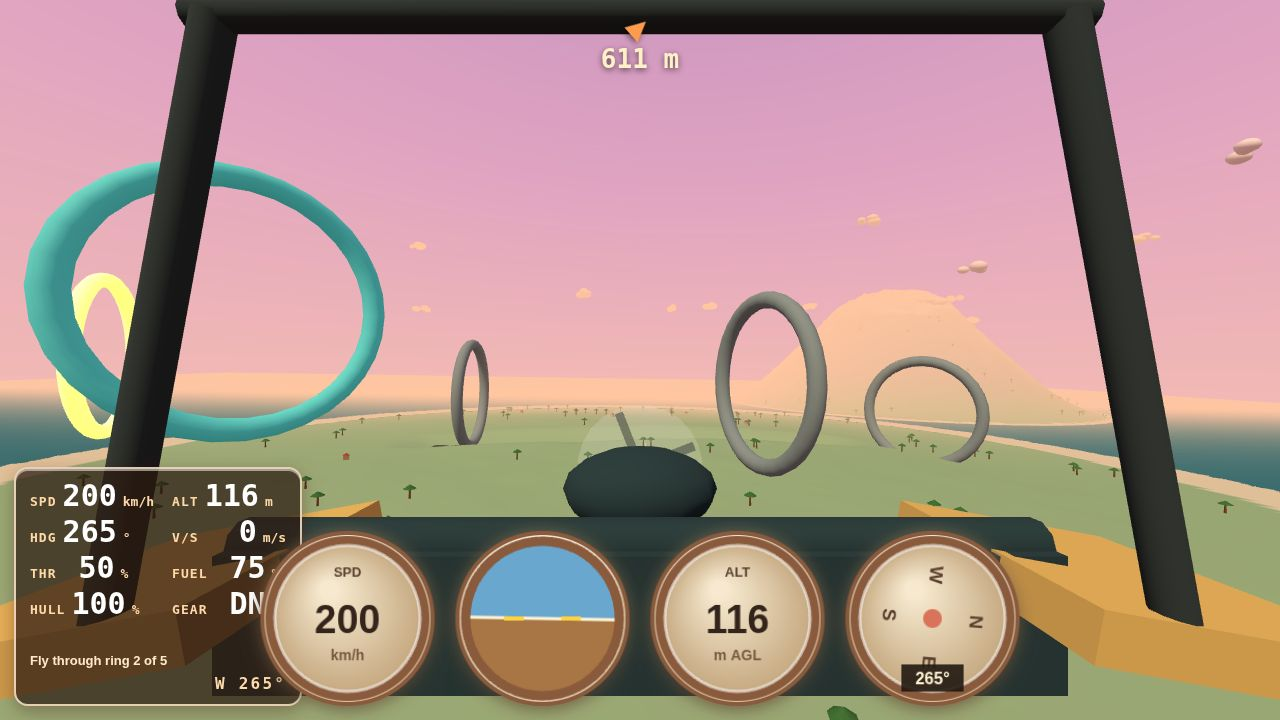
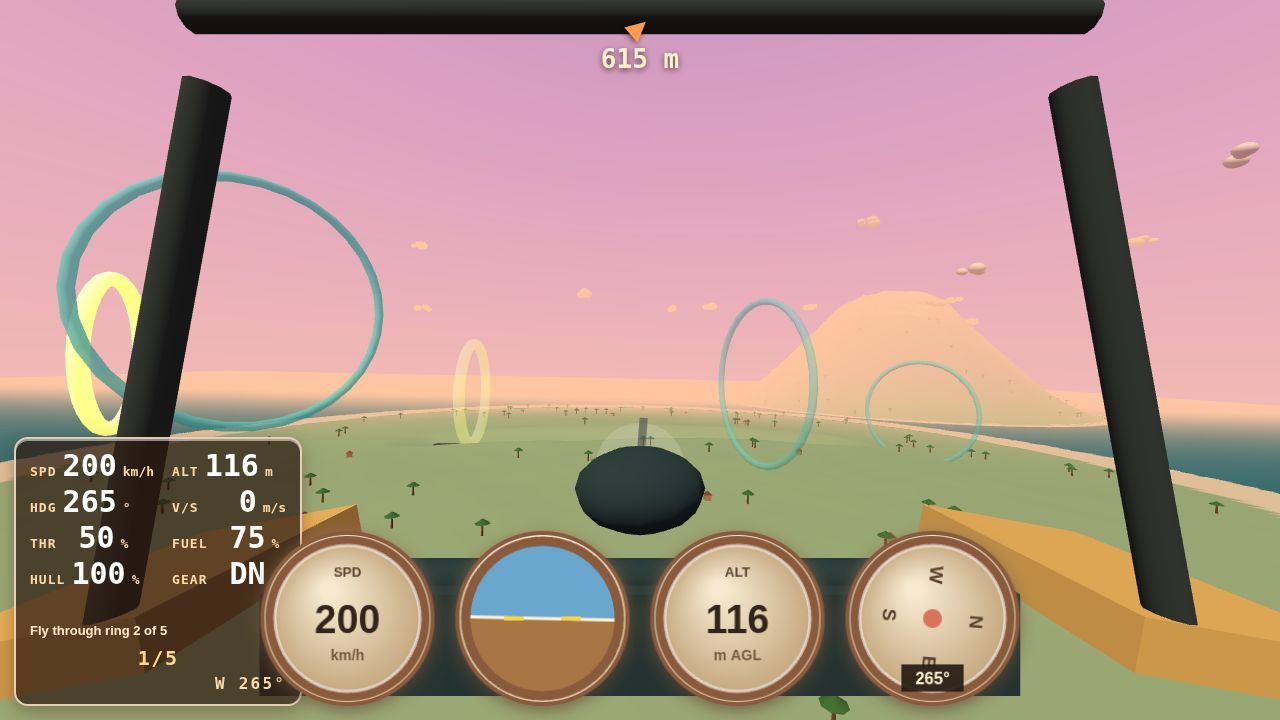
CP7 step 1: procedural clay bump materials applied to terrain, aircraft, props, runway, rings

diff --git a/game/src/main.js b/game/src/main.js
@@ -37,7 +37,7 @@ const startY = groundHeightAt(0, 0) + 1.6;
 const state = createFlightState({ x: 0, y: startY, z: 0, heading: 0 });
 const input = createInput(window);
 const hud = createHud(document);
-const rings = buildRings(THREE, "first-flight");
+const rings = buildRings(THREE, "first-flight", world.mat);
 scene.add(rings.group);
 const screens = createScreens(document);
 let missionState = createMissionState("first-flight");
@@ -233,7 +233,7 @@ function tick() {
   }
   if (paused) hud.el.classList.add("paused"); else hud.el.classList.remove("paused");
 
-  window.__DEBUG__ = { controls: c, state: state, cameraMode: cameraMode, cockpit: cockpitMode, exteriorVisible: air.visible, near: camera.near, fov: camera.fov, hintShown: showHint, cloud: world.sky.cloudMat.color.getHex(), cloudEmissive: world.sky.cloudMat.emissiveIntensity, cloudInfo: world.sky.cloudInfo, hemiGround: world.sky.hemi.groundColor.getHex(), phase: phase, mission: { phase: missionState.phase, ringIndex: missionState.ringIndex, complete: missionState.complete, failed: missionState.failed, stars: missionState.stars }, landing: landingText, ringInfo: rings.info, runwayInfo: world.runwayInfo, ringStates: rings.stateInfo, lampPosts: !!scene.getObjectByName("lamp-posts"), restarts: restarts, keys: Array.from(input.keys), agl: agl, calls: renderer.info.render.calls };
+  window.__DEBUG__ = { controls: c, state: state, cameraMode: cameraMode, cockpit: cockpitMode, exteriorVisible: air.visible, near: camera.near, fov: camera.fov, hintShown: showHint, cloud: world.sky.cloudMat.color.getHex(), cloudEmissive: world.sky.cloudMat.emissiveIntensity, cloudInfo: world.sky.cloudInfo, hemiGround: world.sky.hemi.groundColor.getHex(), phase: phase, mission: { phase: missionState.phase, ringIndex: missionState.ringIndex, complete: missionState.complete, failed: missionState.failed, stars: missionState.stars }, landing: landingText, clayInfo: world.clayInfo, ringInfo: rings.info, runwayInfo: world.runwayInfo, ringStates: rings.stateInfo, lampPosts: !!scene.getObjectByName("lamp-posts"), restarts: restarts, keys: Array.from(input.keys), agl: agl, calls: renderer.info.render.calls };
 
   renderer.render(scene, camera);
   frames += 1;

diff --git a/game/src/render/clay-materials.js b/game/src/render/clay-materials.js
@@ -1,0 +1,63 @@
+// Procedural clay surface: a tiling canvas bump map with layered noise,
+// thumbprint swirls and small dents, plus a MeshStandardMaterial factory that
+// gives each object a slight colour jitter.
+
+import { makeRandom } from "../random.js";
+
+export function createClayMaterials(THREE, doc, seed = 7) {
+  const rnd = makeRandom(seed);
+  const canvas = doc.createElement("canvas");
+  canvas.width = canvas.height = 512;
+  const ctx = canvas.getContext("2d");
+  ctx.fillStyle = "rgb(138,138,138)";
+  ctx.fillRect(0, 0, 512, 512);
+
+  for (let layer = 0; layer < 3; layer += 1) {
+    for (let i = 0; i < 700; i += 1) {
+      const v = 100 + Math.floor(rnd() * 78);
+      ctx.fillStyle = "rgba(" + v + "," + v + "," + v + ",0.35)";
+      ctx.beginPath();
+      ctx.arc(rnd() * 512, rnd() * 512, 1 + rnd() * 5, 0, Math.PI * 2);
+      ctx.fill();
+    }
+  }
+
+  ctx.lineWidth = 2;
+  for (let k = 0; k < 18; k += 1) {
+    const cx = rnd() * 512;
+    const cy = rnd() * 512;
+    const v = 110 + Math.floor(rnd() * 60);
+    for (let ring = 1; ring <= 5; ring += 1) {
+      ctx.strokeStyle = "rgba(" + v + "," + v + "," + v + ",0.4)";
+      ctx.beginPath();
+      ctx.arc(cx, cy, ring * 6 + rnd() * 3, rnd() * 2, rnd() * 2 + Math.PI * 1.2);
+      ctx.stroke();
+    }
+  }
+
+  for (let k = 0; k < 220; k += 1) {
+    ctx.fillStyle = "rgba(70,70,70,0.35)";
+    ctx.beginPath();
+    ctx.arc(rnd() * 512, rnd() * 512, 1 + rnd() * 2, 0, Math.PI * 2);
+    ctx.fill();
+  }
+
+  const bump = new THREE.CanvasTexture(canvas);
+  bump.wrapS = bump.wrapT = THREE.RepeatWrapping;
+  bump.repeat.set(6, 6);
+
+  function mat(color, opts) {
+    const jitter = 1 + (rnd() - 0.5) * 0.08;
+    const base = new THREE.Color(color).multiplyScalar(jitter);
+    return new THREE.MeshStandardMaterial({
+      color: base,
+      roughness: 0.9,
+      metalness: 0,
+      bumpMap: bump,
+      bumpScale: 0.025,
+      ...(opts || {}),
+    });
+  }
+
+  return { mat, bump, info: { bumpSize: canvas.width, roughness: 0.9, repeat: 6 } };
+}

diff --git a/game/src/render/scene.js b/game/src/render/scene.js
@@ -8,35 +8,14 @@ import { buildSky } from "../world/sky.js";
 import { buildProps } from "../world/props.js";
 import { buildAircraft } from "./aircraft-model.js";
 import { makeRandom } from "../random.js";
-
-function clayBump(THREE, doc, size) {
-  const c = doc.createElement("canvas");
-  c.width = c.height = size;
-  const ctx = c.getContext("2d");
-  ctx.fillStyle = "rgb(140,140,140)";
-  ctx.fillRect(0, 0, size, size);
-  for (let y = 0; y < size; y += 5) {
-    for (let x = 0; x < size; x += 5) {
-      const s = 110 + Math.floor(Math.random() * 60);
-      ctx.fillStyle = "rgb(" + s + "," + s + "," + s + ")";
-      ctx.beginPath();
-      ctx.arc(x + 2, y + 2, 1.5 + Math.random() * 2, 0, Math.PI * 2);
-      ctx.fill();
-    }
-  }
-  const tex = new THREE.CanvasTexture(c);
-  tex.wrapS = tex.wrapT = THREE.RepeatWrapping;
-  tex.repeat.set(6, 6);
-  return tex;
-}
+import { createClayMaterials } from "./clay-materials.js";
 
 export function assembleScene(THREE, scene, doc, seed) {
-  const bump = clayBump(THREE, doc, 128);
-  const matFactory = (color) =>
-    new THREE.MeshStandardMaterial({ color, roughness: 0.86, metalness: 0.02, bumpMap: bump, bumpScale: 0.02 });
+  const clay = createClayMaterials(THREE, doc, seed);
+  const matFactory = clay.mat;
 
   const sky = buildSky(THREE, scene, doc);
-  const terrain = buildTerrainMesh(THREE);
+  const terrain = buildTerrainMesh(THREE, matFactory);
   scene.add(terrain);
   scene.add(buildWater(THREE, matFactory));
   const runways = buildRunways(THREE, matFactory);
@@ -50,6 +29,8 @@ export function assembleScene(THREE, scene, doc, seed) {
     terrain,
     sky,
     runwayInfo: runways.userData.runwayInfo,
+    mat: matFactory,
+    clayInfo: clay.info,
     aircraft: aircraft.group,
     prop: aircraft.prop,
     wheels: aircraft.wheels,

diff --git a/game/src/world/rings.js b/game/src/world/rings.js
@@ -6,7 +6,7 @@ import { getMission } from "../missions.js";
 const ACTIVE_TUBE = 6;
 const THIN_TUBE = 2.5;
 
-export function buildRings(THREE, missionId) {
+export function buildRings(THREE, missionId, mat) {
   const group = new THREE.Group();
   group.name = "mission-rings";
   const rings = getMission(missionId).rings;
@@ -16,14 +16,12 @@ export function buildRings(THREE, missionId) {
   let prev = { x: 0, z: 0 };
 
   for (const ring of rings) {
-    const thickMat = new THREE.MeshStandardMaterial({
-      color: 0xfff6d2, emissive: 0xffd45a, emissiveIntensity: 1.4,
-      roughness: 0.7, metalness: 0, transparent: true, opacity: 1,
-    });
-    const thinMat = new THREE.MeshStandardMaterial({
-      color: 0x66d7d0, emissive: 0x1f8f8a, emissiveIntensity: 0.55,
-      roughness: 0.8, metalness: 0, transparent: true, opacity: 0.7,
-    });
+    const thickMat = (mat || ((c, o) => new THREE.MeshStandardMaterial({ color: c, ...o })))(
+      0xfff6d2, { emissive: 0xffd45a, emissiveIntensity: 1.4, transparent: true, opacity: 1 },
+    );
+    const thinMat = (mat || ((c, o) => new THREE.MeshStandardMaterial({ color: c, ...o })))(
+      0x66d7d0, { emissive: 0x1f8f8a, emissiveIntensity: 0.55, transparent: true, opacity: 0.7 },
+    );
     const rotation = Math.atan2(ring.x - prev.x, ring.z - prev.z);
     const thick = new THREE.Mesh(new THREE.TorusGeometry(ring.r, ACTIVE_TUBE, 10, 32), thickMat);
     thick.position.set(ring.x, ring.y, ring.z);

diff --git a/game/src/world/terrain.js b/game/src/world/terrain.js
@@ -82,7 +82,7 @@ function colorFor(h, slope, out) {
   out[2] = c[2];
 }
 
-export function buildTerrainMesh(THREE) {
+export function buildTerrainMesh(THREE, mat) {
   const n = GRID;
   const span = 2 * WORLD_HALF;
   const step = span / (n - 1);
@@ -123,8 +123,8 @@ export function buildTerrainMesh(THREE) {
   geo.setAttribute("color", new THREE.BufferAttribute(colors, 3));
   geo.setIndex(indices);
   geo.computeVertexNormals();
-  const mat = new THREE.MeshStandardMaterial({ vertexColors: true, roughness: 0.95, metalness: 0.0 });
-  const mesh = new THREE.Mesh(geo, mat);
+  const material = mat ? mat(0xffffff, { vertexColors: true }) : new THREE.MeshStandardMaterial({ vertexColors: true, roughness: 0.95, metalness: 0 });
+  const mesh = new THREE.Mesh(geo, material);
   mesh.receiveShadow = true;
   mesh.name = "terrain";
   return mesh;
